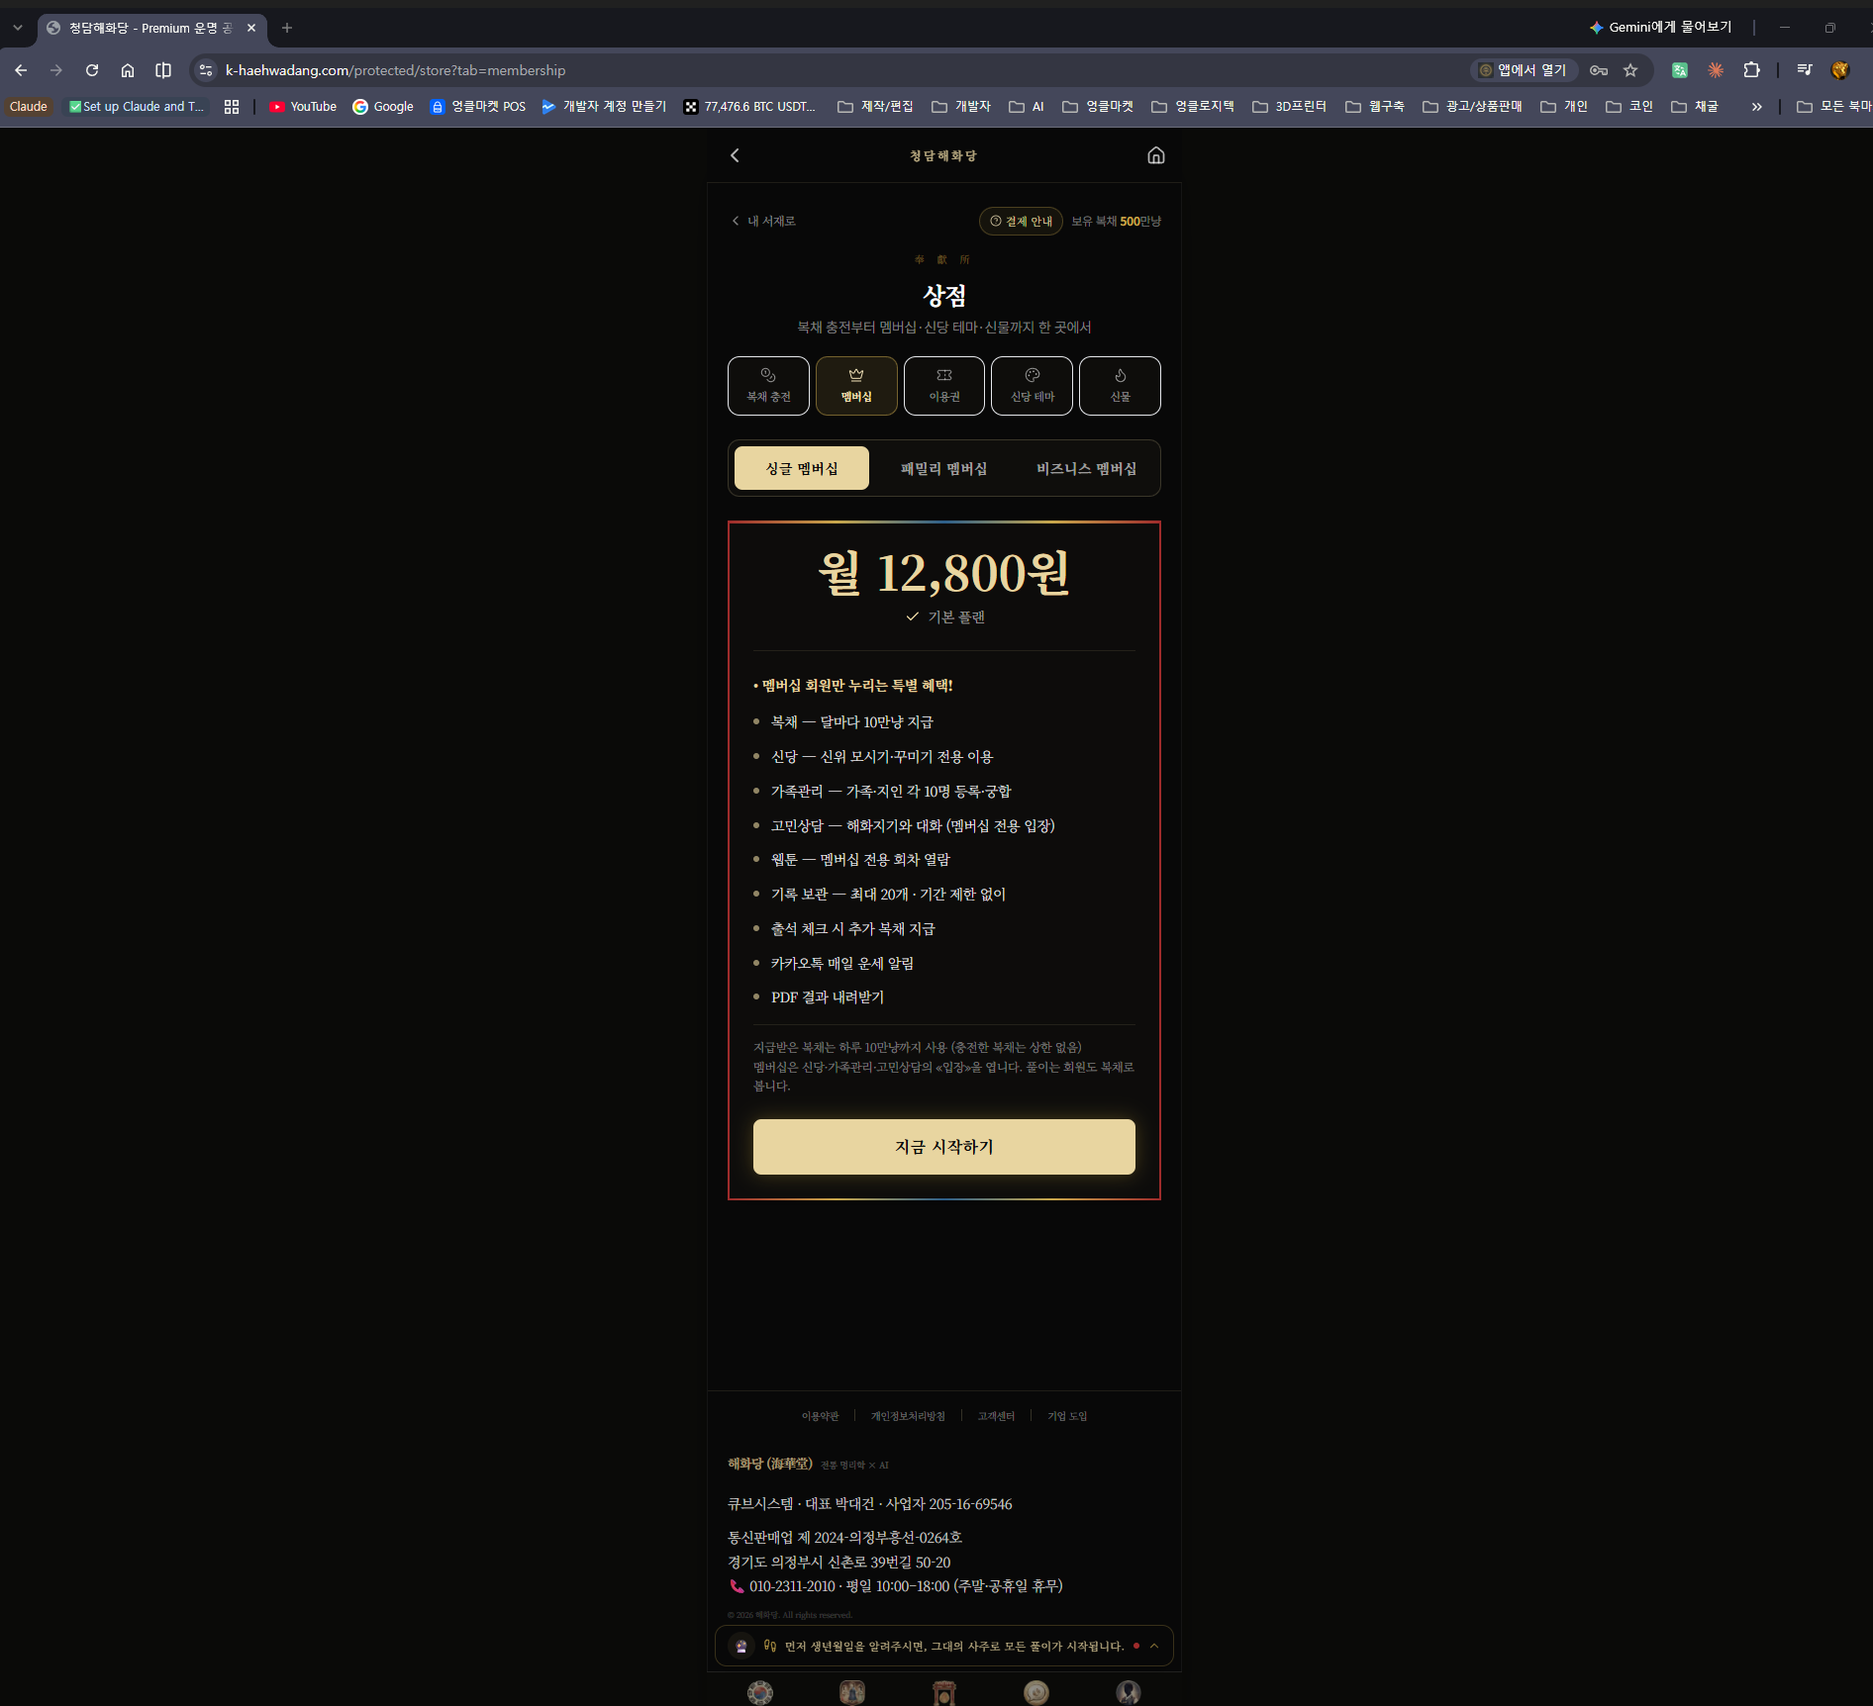
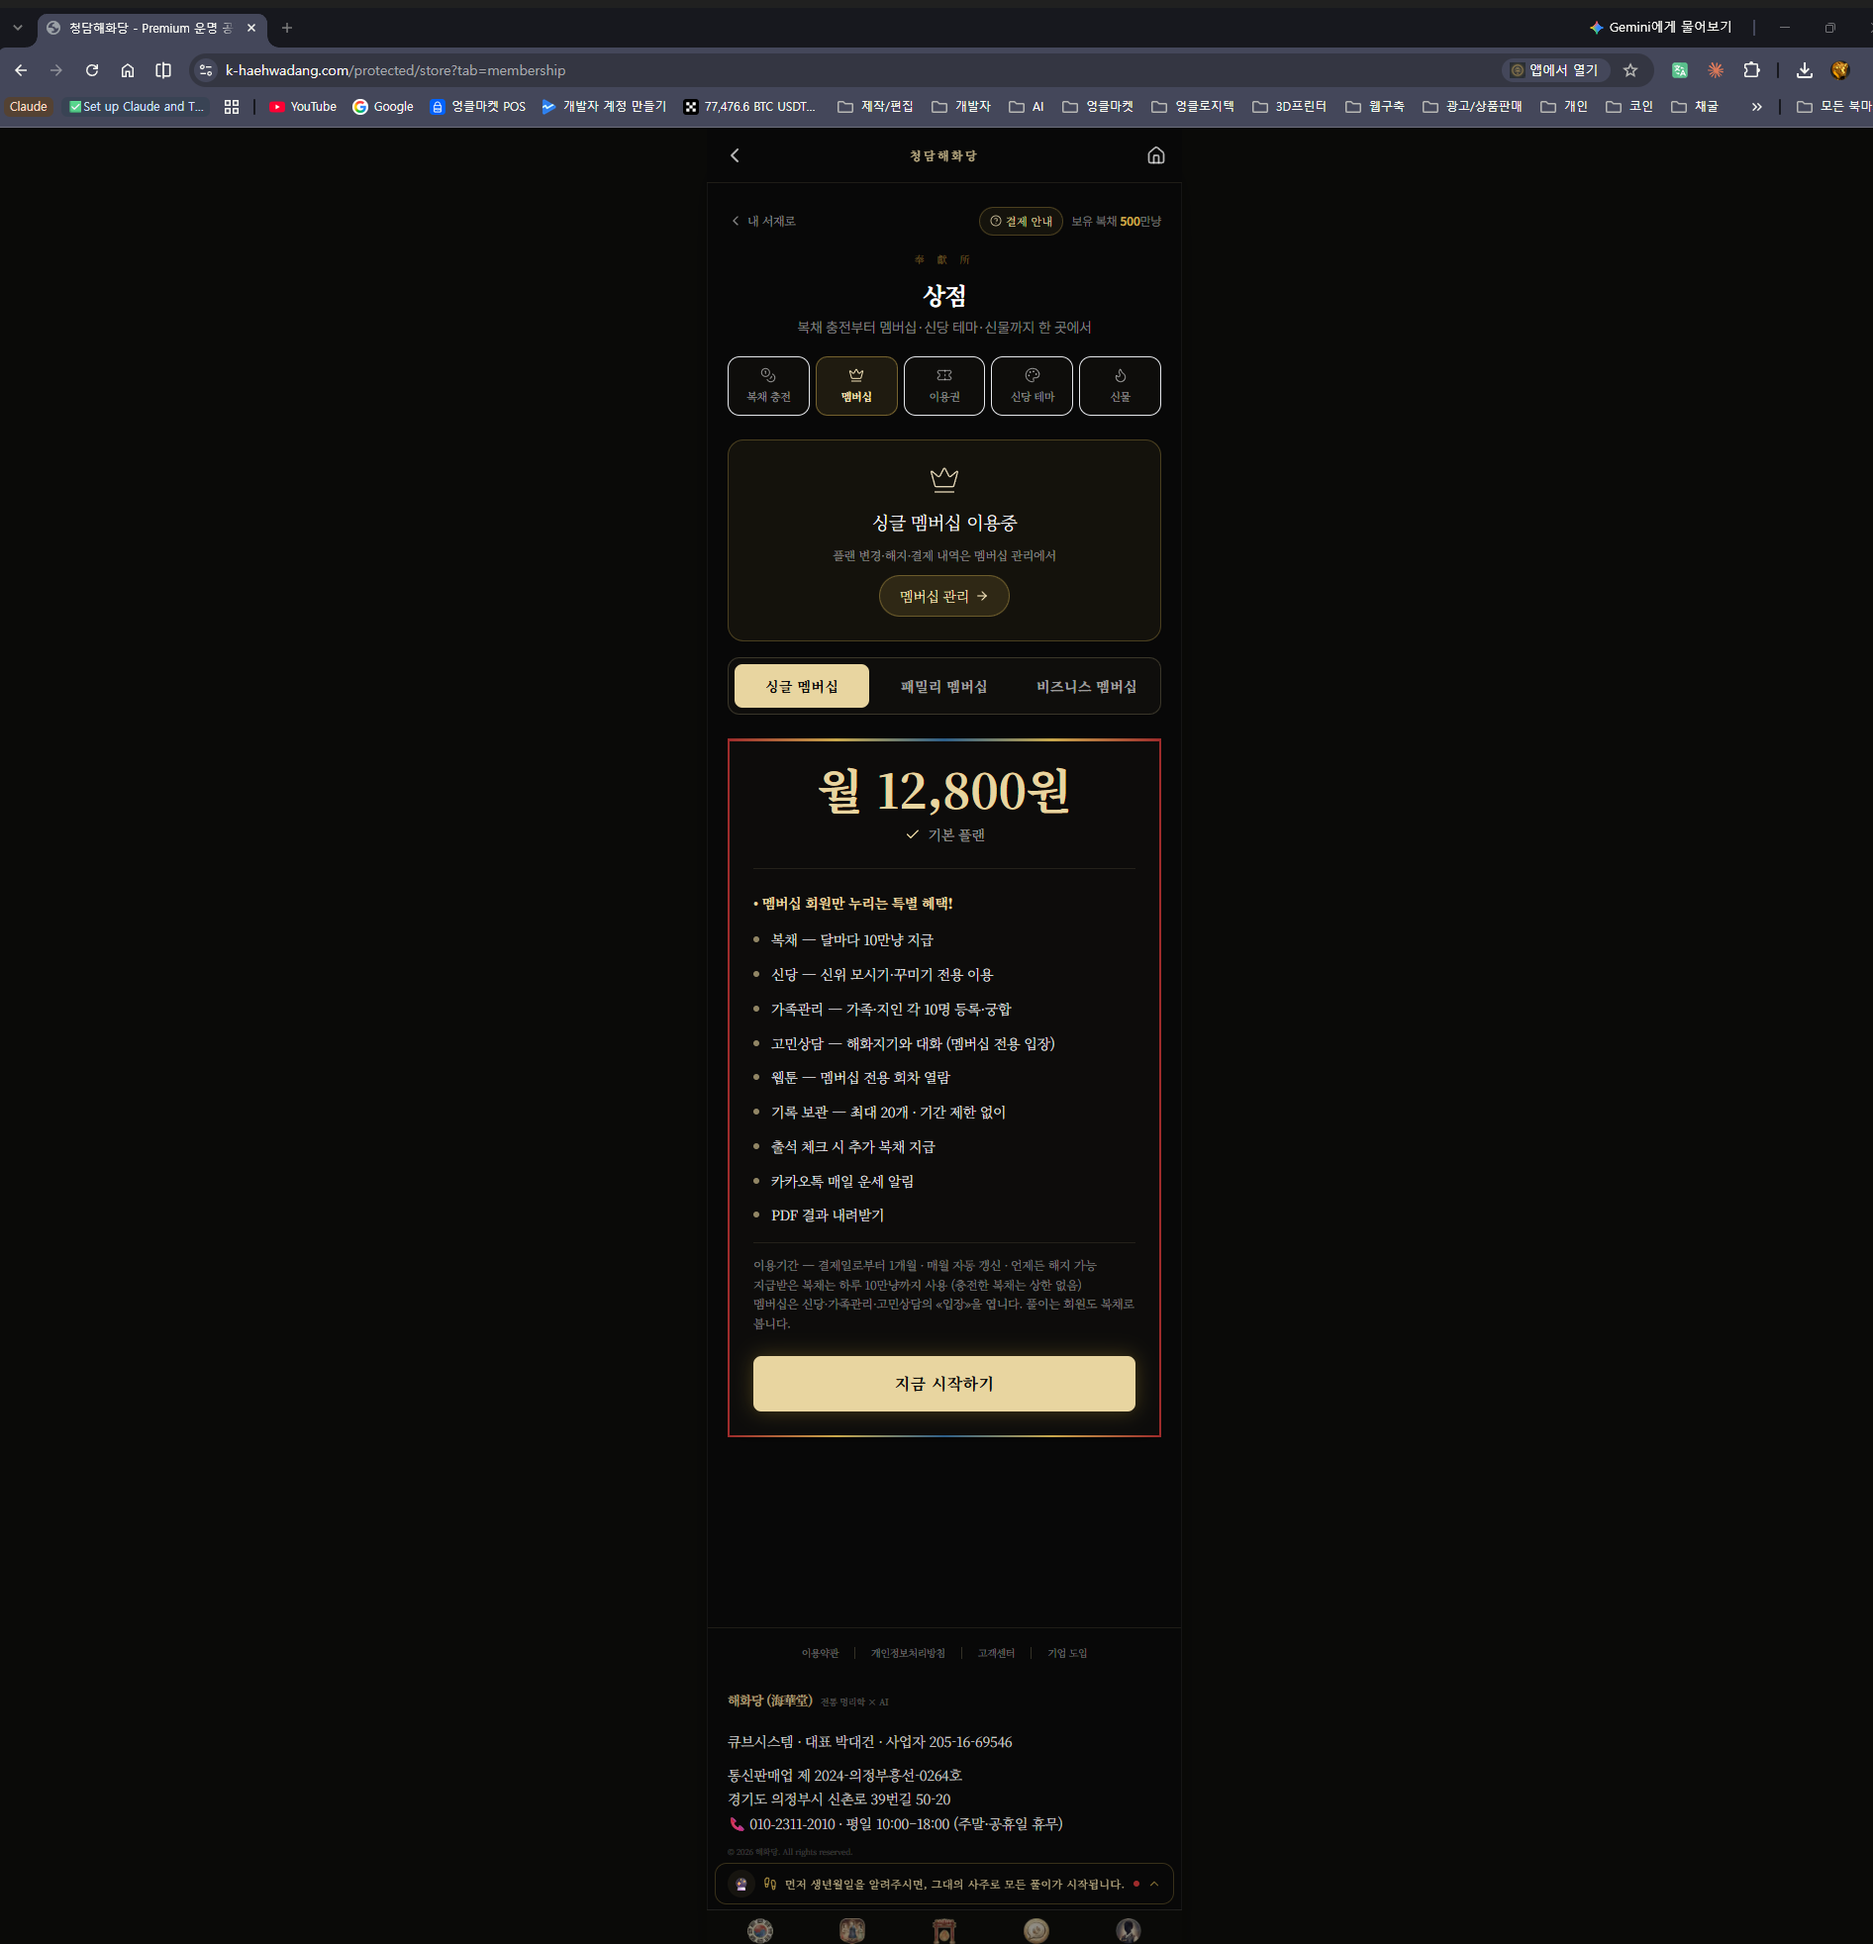
docs(toss): 새 문구 캡처로 교체 + 멤버십 ⑤ 를 한 화면으로 정리
복채·싱글 캡처를 이용기간·제공 시점이 들어간 것으로 갈았다.

🔴 패밀리·비즈니스 캡처는 뺐다. 긴 페이지 스크린샷의 이어붙이기 결함으로
   패밀리에서는 가족관리·고민상담·웹툰 세 줄이 빠지고 비즈니스에서는 같은 세
   줄이 겹쳐 찍혔다. 실물은 정상이다 — 라이브 DOM 을 직접 세어 패밀리 11개,
   비즈니스 14개(중복 0)를 확인했다. 실제와 다른 그림을 심사에 내는 것이
   장수를 줄이는 것보다 위험해서 뺀다.

⑤ 는 멤버십 탭 한 화면 + 3등급 표로 요건을 채운다(등급은 같은 화면에서 탭으로
전환된다). 확인표 11장 → 9장.

Changed region(s): [[0.0, 0.0, 1.0, 0.7378], [0.3742, 0.83, 0.6237, 1.0]]

diff --git a/docs/toss-review/정기결제-결제경로.md b/docs/toss-review/정기결제-결제경로.md
@@ -115,29 +115,19 @@
 | 패밀리 멤버십   | 29,900원 | 매월      | 이용권 30만냥 지급 · 가족 궁합 매트릭스 추가    |
 | 비즈니스 멤버십 | 99,000원 | 매월      | 이용권 100만냥 지급 · 우선 지원 · 맞춤형 리포트 |
 
-### ⑤-1 싱글 멤버십
-
-![싱글 멤버십](images/06-상품선택-싱글.png)
+![멤버십 상품 화면](images/06-상품선택-싱글.png)
 
 **설명**
 
-월 **12,800원** 자동결제 상품입니다. 화면 하단에 **"달마다 자동 결제 · 언제든 해지 가능"** 과 제공 내용이 명시되어 있습니다.
+상점의 **멤버십** 탭입니다. 화면 상단의 등급 선택(싱글 · 패밀리 · 비즈니스)으로 세 상품을 같은 자리에서 전환해 볼 수 있으며, 선택한 등급의 **월 요금 · 제공 내용 · 이용기간**이 함께 표시됩니다. 첨부한 화면은 **싱글 멤버십(월 12,800원)** 입니다.
 
-### ⑤-2 패밀리 멤버십
+혜택 목록 아래에 이용 조건을 명시합니다.
 
-![패밀리 멤버십](images/07-상품선택-패밀리.png)
+- **이용기간 — 결제일로부터 1개월 · 매월 자동 갱신 · 언제든 해지 가능**
+- 지급받은 이용권은 하루 사용 상한이 있으며, 충전한 이용권은 상한을 받지 않음
+- 멤버십이 여는 것은 신당 · 가족관리 · 고민상담의 **이용 권한**이며, 분석은 회원도 이용권을 사용함
 
-**설명**
-
-월 **29,900원** 자동결제 상품입니다.
-
-### ⑤-3 비즈니스 멤버십
-
-![비즈니스 멤버십](images/08-상품선택-비즈니스.png)
-
-**설명**
-
-월 **99,000원** 자동결제 상품입니다.
+세 등급의 요금과 제공 내용은 위 표와 같습니다.
 
 ---
 
@@ -201,22 +191,20 @@
 
 ## 담당자 확인표
 
-| #   | 요구 항목            | 파일명                     | 확인 |
-| --- | -------------------- | -------------------------- | ---- |
-| ①   | 가맹점 정보 (표지)   | —                          | ☐    |
-| ②   | 하단정보             | `02-하단정보.png`          | ☐    |
-| ③   | 환불규정             | `03-환불규정.png`          | ☐    |
-| ④-1 | 로그인               | `04-로그인.png`            | ☐    |
-| ④-2 | 회원가입             | `05-회원가입.png`          | ☐    |
-| ⑤-1 | 상품선택 — 싱글      | `06-상품선택-싱글.png`     | ☐    |
-| ⑤-2 | 상품선택 — 패밀리    | `07-상품선택-패밀리.png`   | ☐    |
-| ⑤-3 | 상품선택 — 비즈니스  | `08-상품선택-비즈니스.png` | ☐    |
-| ⑥-1 | 결제 확인            | `09-결제확인.png`          | ☐    |
-| ⑥-2 | 카드 정보 입력       | `10-카드정보입력.png`      | ☐    |
-| ⑥-3 | 본인 정보 입력       | `11-본인정보입력.png`      | ☐    |
-| ⑦   | 결제정보 변경 (권장) | `12-결제정보변경.png`      | ☐    |
+| #   | 요구 항목            | 파일명                 | 확인 |
+| --- | -------------------- | ---------------------- | ---- |
+| ①   | 가맹점 정보 (표지)   | —                      | ☐    |
+| ②   | 하단정보             | `02-하단정보.png`      | ☐    |
+| ③   | 환불규정             | `03-환불규정.png`      | ☐    |
+| ④-1 | 로그인               | `04-로그인.png`        | ☐    |
+| ④-2 | 회원가입             | `05-회원가입.png`      | ☐    |
+| ⑤   | 상품선택 (멤버십 탭) | `06-상품선택-싱글.png` | ☐    |
+| ⑥-1 | 결제 확인            | `09-결제확인.png`      | ☐    |
+| ⑥-2 | 카드 정보 입력       | `10-카드정보입력.png`  | ☐    |
+| ⑥-3 | 본인 정보 입력       | `11-본인정보입력.png`  | ☐    |
+| ⑦   | 결제정보 변경 (권장) | `12-결제정보변경.png`  | ☐    |
 
-**총 11장**
+**총 9장**
 
 ---
 
